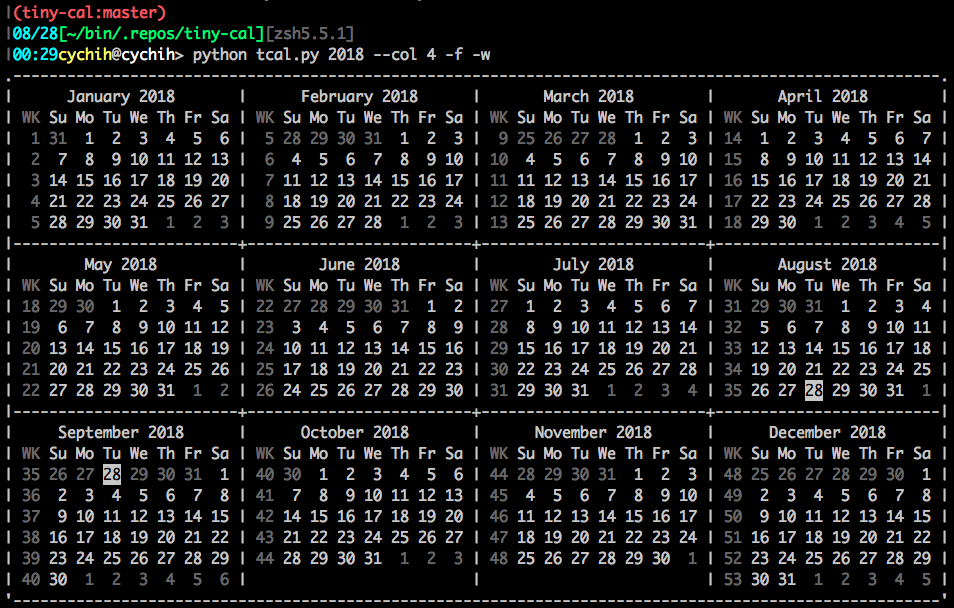
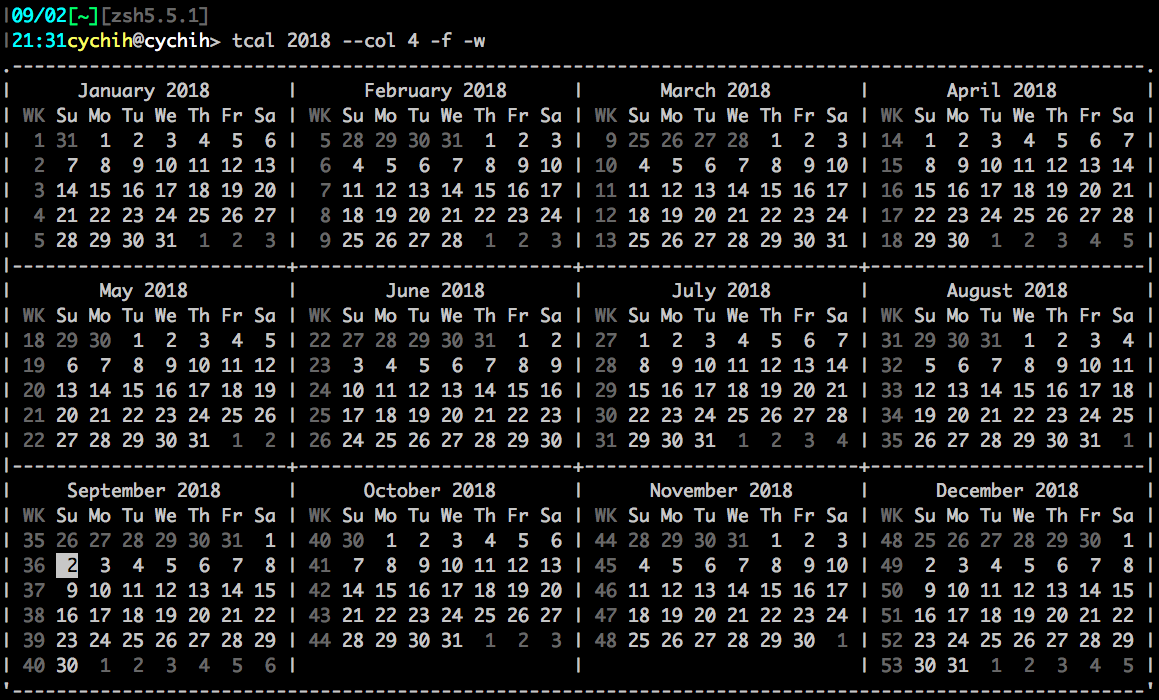
Fix issue of today = ':white' looks whole white

diff --git a/tinycal/tcal.py b/tinycal/tcal.py
@@ -83,9 +83,12 @@ def parse_color_config(color_config):
     if (not fg or fg.lower() == 'none') and (not bg or bg.lower() == 'none'):
         return ''
 
+    if fg == 'none' and bg.lower() == 'white':
+        fg = 'black'
+
     color_codes = []
 
-    if fg and fg.lower() != 'none':
+    if fg.lower() != 'none':
         if fg.upper() == fg:
             color_codes.append('1')
         else:
@@ -93,7 +96,7 @@ def parse_color_config(color_config):
 
         color_codes.append('3' + COLOR_CODE[fg.lower()])
 
-    if bg and bg.lower() != 'none':
+    if bg.lower() != 'none':
         color_codes.append('4' + COLOR_CODE[bg.lower()])
 
     ret = '\033['

diff --git a/setup.py b/setup.py
@@ -2,7 +2,7 @@ from setuptools import setup
 
 setup(
     name='tinycal',
-    version='0.1.3',
+    version='0.1.4',
     description='A Python implementation of cal utility',
     author='Chang-Yen Chih',
     author_email='michael66230@gmail.com',
